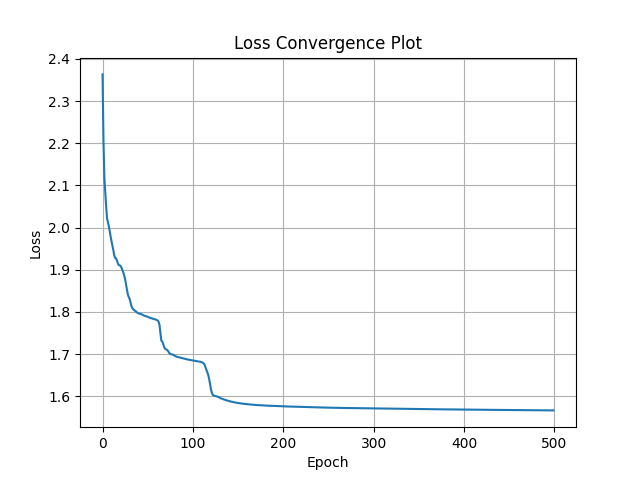
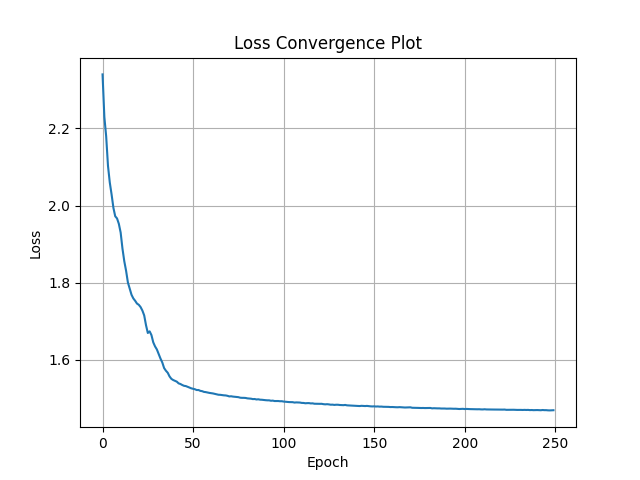
full batch updated code

diff --git a/local_code/stage_2_code/Method_MLP_fullbatch_main.py b/local_code/stage_2_code/Method_MLP_fullbatch_main.py
@@ -15,7 +15,7 @@ import numpy as np
 class Method_MLP(method, nn.Module):
     data = None
     # it defines the max rounds to train the model
-    max_epoch = 500
+    max_epoch = 250
     # it defines the learning rate for gradient descent based optimizer for model learning
     learning_rate = 5e-4
 
@@ -26,14 +26,18 @@ class Method_MLP(method, nn.Module):
         method.__init__(self, mName, mDescription)
         nn.Module.__init__(self)
         # check here for nn.Linear doc: https://pytorch.org/docs/stable/generated/torch.nn.Linear.html
-        self.fc_layer_1 = nn.Linear(784, 128)
+        self.fc_layer_1 = nn.Linear(784, 512)
         # check here for nn.ReLU doc: https://pytorch.org/docs/stable/generated/torch.nn.ReLU.html
         self.activation_func_1 = nn.ReLU()
-        self.fc_layer_2 = nn.Linear(128, 64)
+        self.fc_layer_2 = nn.Linear(512, 256)
         # check here for nn.Softmax doc: https://pytorch.org/docs/stable/generated/torch.nn.Softmax.html
         self.activation_func_2 = nn.ReLU()
-        self.fc_layer_3 = nn.Linear(64, 10)
-        self.activation_func_3 = nn.Softmax(dim=1)
+        self.fc_layer_3 = nn.Linear(256, 128)
+        self.activation_func_3 = nn.ReLU()
+        self.fc_layer_4 = nn.Linear(128, 10)
+        self.activation_func_4 = nn.Softmax(dim=1)
+
+        self.dropout = nn.Dropout(p=0.15)
 
         self.historical_loss = []
         self.historical_accuracy = []
@@ -49,8 +53,12 @@ class Method_MLP(method, nn.Module):
         # self.fc_layer_2(h) will be a nx2 tensor
         # n (denotes the input instance number): 0th dimension; 2 (denotes the class number): 1st dimension
         # we do softmax along dim=1 to get the normalized classification probability distributions for each instance
+        h = self.dropout(h)
         h = self.activation_func_2(self.fc_layer_2(h))
-        y_pred = self.activation_func_3(self.fc_layer_3(h))
+        h = self.dropout(h)
+        h = self.activation_func_3(self.fc_layer_3(h))
+        h = self.dropout(h)
+        y_pred = self.activation_func_4(self.fc_layer_4(h))
         return y_pred
 
     # backward error propagation will be implemented by pytorch automatically
@@ -63,6 +71,10 @@ class Method_MLP(method, nn.Module):
         loss_function = nn.CrossEntropyLoss()
         # for training accuracy investigation purpose
         accuracy_evaluator = Evaluate_Accuracy('training evaluator', '')
+
+        best_loss = float('inf')
+        patience = 20
+        patience_counter = 0
 
         # it will be an iterative gradient updating process
         # we don't do mini-batch, we use the whole input as one batch
@@ -86,6 +98,15 @@ class Method_MLP(method, nn.Module):
 
             #storing loss for the loss convergence curve
             self.historical_loss.append(train_loss.item())
+
+            if train_loss.item() < best_loss:
+                best_loss = train_loss.item()
+                patience_counter = 0
+            else:
+                patience_counter += 1
+                if patience_counter >= patience:
+                    print(f'Early stopping at epoch {epoch}')
+                    break
 
             if epoch%10 == 0: #originally epoch%100 but did epoch%1 just to get an idea of what is going on (change back when have stable model version)
                 accuracy_evaluator.data = {'true_y': y_true, 'pred_y': y_pred.max(1)[1]}

diff --git a/script/stage_2_script/script_mlp.py b/script/stage_2_script/script_mlp.py
@@ -1,5 +1,5 @@
 from local_code.stage_2_code.Dataset_Loader import Dataset_Loader
-from local_code.stage_2_code.Method_MLP import Method_MLP
+from local_code.stage_2_code.Method_MLP_fullbatch_main import Method_MLP
 from local_code.stage_2_code.Result_Saver import Result_Saver
 from local_code.stage_2_code.Evaluate_Accuracy import Evaluate_Accuracy
 from sklearn.metrics import f1_score, recall_score, precision_score

diff --git a/local_code/stage_2_code/Dataset_Loader.py b/local_code/stage_2_code/Dataset_Loader.py
@@ -6,6 +6,7 @@ Concrete IO class for a specific dataset
 # License: TBD
 
 from local_code.base_class.dataset import dataset
+import numpy as np
 
 
 class Dataset_Loader(dataset):
